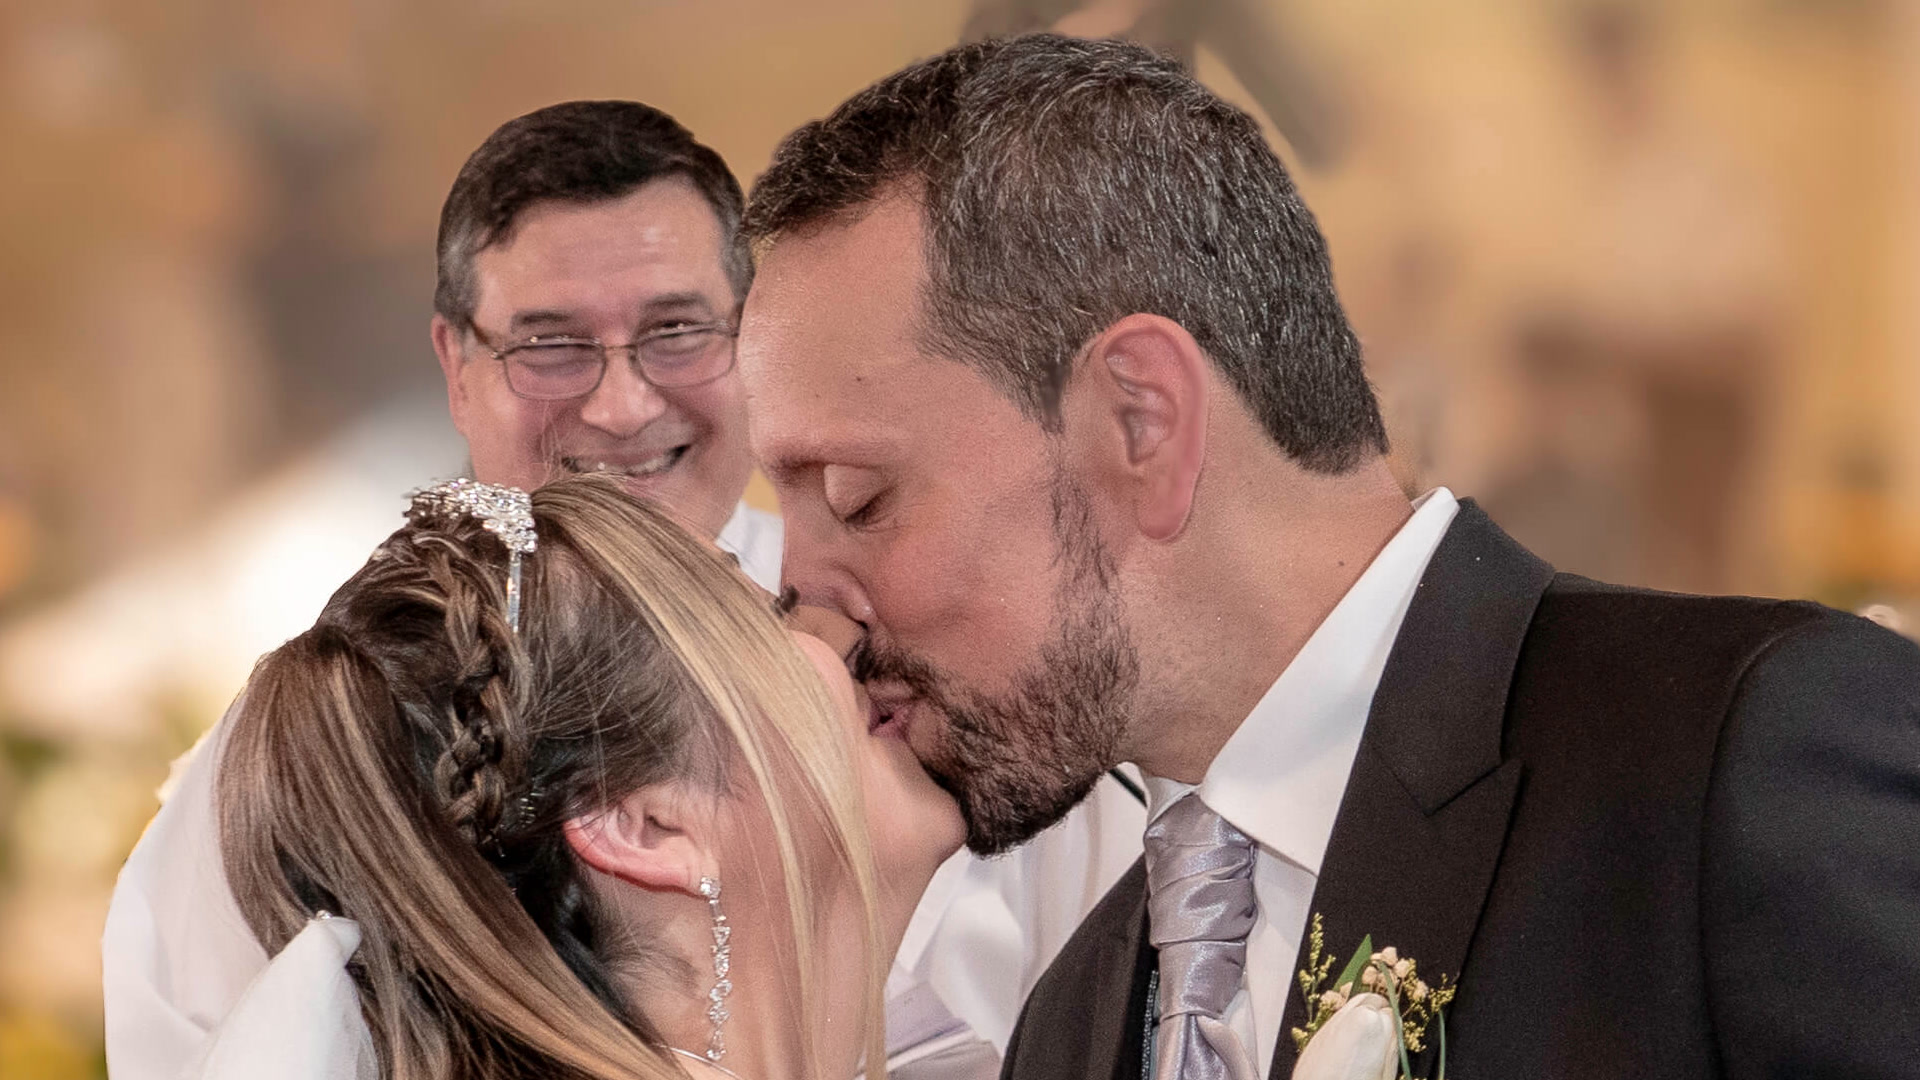
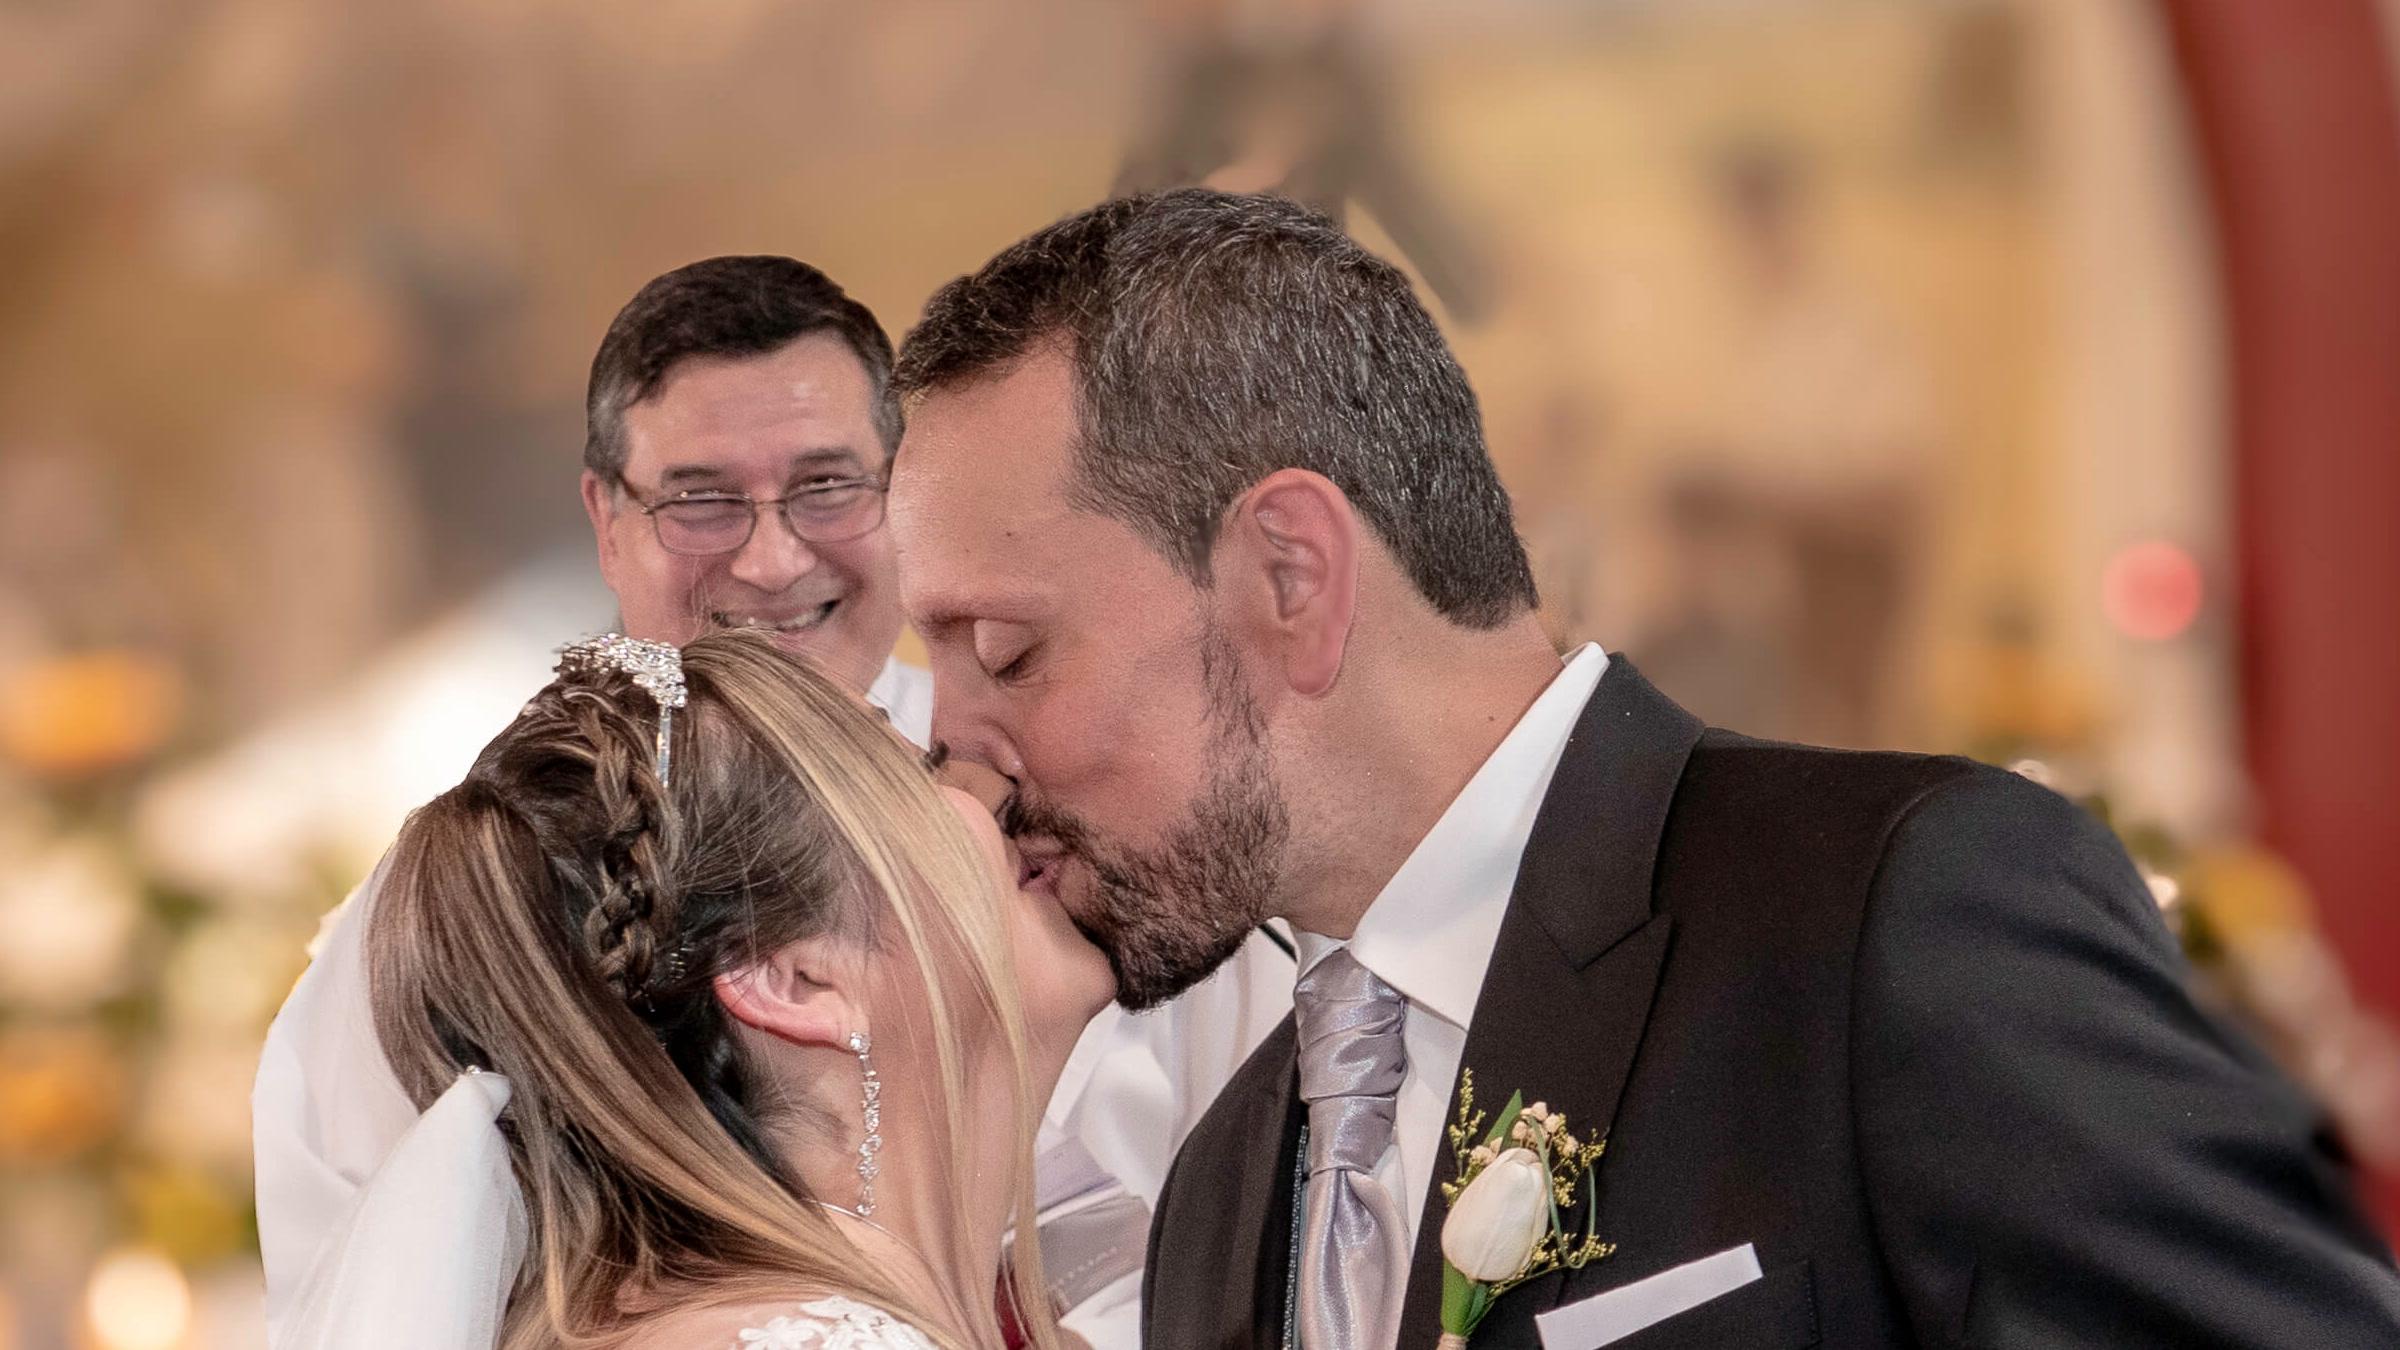
Subject-aware framing: heads never cropped by letterbox, zoom or text zones
Claude-Session: https://claude.ai/code/session_01GtZpFnGd9MwZFQGCv2aLcE

diff --git a/portalboda-spot/src/components/Shot.tsx b/portalboda-spot/src/components/Shot.tsx
@@ -1,6 +1,7 @@
 import React from "react";
 import { AbsoluteFill, Img, interpolate, staticFile, useCurrentFrame, useVideoConfig } from "remotion";
 import { EASE, ShotDef, img } from "../config";
+import { letterboxBar } from "../look/Look";
 
 const clamp = { extrapolateLeft: "clamp", extrapolateRight: "clamp" } as const;
 
@@ -14,13 +15,61 @@ export const useShotImage = (shot: ShotDef) => {
   return img(vertical && shot.v ? shot.v : shot.h);
 };
 
+/** Fracciones del cuadro reservadas (texto) donde no deben quedar las cabezas. */
+export type Avoid = { top?: number; bottom?: number; left?: number; right?: number };
+
+type Frame = { scale: number; x: number; y: number; w: number; h: number };
+
+/**
+ * Encuadre con prioridad al sujeto: escala de cover × zoom (limitado para que el sujeto quepa)
+ * y posición dentro del rango donde la caja del sujeto queda en la ventana visible
+ * (cuadro − letterbox − zonas de texto). `pan` ∈ [0,1] recorre ese rango.
+ */
+const frameSubject = (
+  W: number,
+  H: number,
+  im: { w: number; h: number; subject: [number, number, number, number] },
+  zoom: number,
+  pan: [number, number],
+  avoid: Avoid,
+): Frame => {
+  const bar = letterboxBar(W, H);
+  const margin = 0.03 * Math.min(W, H);
+  const vl = W * (avoid.left ?? 0) + margin;
+  const vr = W * (1 - (avoid.right ?? 0)) - margin;
+  const vt = Math.max(bar, H * (avoid.top ?? 0)) + margin;
+  const vb = Math.min(H - bar, H * (1 - (avoid.bottom ?? 0))) - margin;
+  const [x0, y0, x1, y1] = im.subject;
+  const cover = Math.max(W / im.w, H / im.h);
+  // Zoom máximo con el que el sujeto aún entra en la ventana.
+  const maxZoom = Math.min((vr - vl) / ((x1 - x0) * im.w * cover), (vb - vt) / ((y1 - y0) * im.h * cover));
+  const scale = cover * Math.max(1, Math.min(zoom, maxZoom));
+  const w = im.w * scale;
+  const h = im.h * scale;
+  const axis = (size: number, frame: number, a0: number, a1: number, lo: number, hi: number, p: number) => {
+    // cubrir el cuadro: [frame - size, 0]; sujeto dentro de [lo, hi]: [lo - a0·size, hi - a1·size]
+    const min = Math.max(frame - size, lo - a0 * size);
+    const max = Math.min(0, hi - a1 * size);
+    if (min <= max) return min + (max - min) * p;
+    // Sin solución exacta: prioriza el borde superior/izquierdo del sujeto (las cabezas).
+    return Math.min(0, Math.max(frame - size, lo - a0 * size));
+  };
+  return {
+    scale,
+    w,
+    h,
+    x: axis(w, W, x0, x1, vl, vr, pan[0]),
+    y: axis(h, H, y0, y1, vt, vb, pan[1]),
+  };
+};
+
 type Props = {
   shot: ShotDef;
   duration: number;
   id: string;
-  /** Ken Burns: escala inicial → final */
+  /** Ken Burns: zoom inicial → final (se limita para no cortar cabezas) */
   zoom?: [number, number];
-  /** Deriva en % (x, y) a lo largo de la toma */
+  /** Paneo dentro del rango seguro: [x, y] de -1 a 1 (0 = centrado) */
   drift?: [number, number];
   /** Whip-pan de entrada/salida: 1 = hacia la izquierda, -1 = derecha, 0 = sin whip */
   whipIn?: number;
@@ -28,34 +77,40 @@ type Props = {
   whipFrames?: number;
   /** Aberración cromática en el corte de entrada */
   aberration?: boolean;
+  avoid?: Avoid;
 };
 
-// Toma con Ken Burns, whip-pan con motion blur direccional (SVG) y aberración cromática en el corte.
+// Toma con Ken Burns subject-aware, whip-pan con motion blur direccional (SVG) y aberración cromática.
 export const Shot: React.FC<Props> = ({
   shot,
   duration,
   id,
-  zoom = [1.06, 1.14],
+  zoom = [1.04, 1.1],
   drift = [0, 0],
   whipIn = 0,
   whipOut = 0,
   whipFrames = 5,
   aberration = true,
+  avoid = {},
 }) => {
   const frame = useCurrentFrame();
-  const { src, focal } = useShotImage(shot);
+  const { width, height } = useVideoConfig();
+  const image = useShotImage(shot);
 
   const kb = interpolate(frame, [0, duration], [0, 1], { ...clamp, easing: EASE.slow });
-  const scale = zoom[0] + (zoom[1] - zoom[0]) * kb;
+  const z = zoom[0] + (zoom[1] - zoom[0]) * kb;
+  const pan: [number, number] = [0.5 + 0.5 * drift[0] * (kb - 0.5), 0.5 + 0.5 * drift[1] * (kb - 0.5)];
+  const f = frameSubject(width, height, image, z, pan, avoid);
 
-  // Whip: desplazamiento + blur horizontal que culmina justo en el corte.
+  // Whip: desplazamiento corto + blur horizontal fuerte que culmina justo en el corte.
   const inP = whipIn ? interpolate(frame, [0, whipFrames], [1, 0], { ...clamp, easing: EASE.out }) : 0;
   const outP = whipOut
     ? interpolate(frame, [duration - whipFrames, duration], [0, 1], { ...clamp, easing: EASE.in })
     : 0;
-  const shift = whipIn * inP * 12 - whipOut * outP * 12;
-  const blur = Math.max(inP, outP) * 60;
-  const whipScale = 1 + Math.max(inP, outP) * 0.3;
+  const shift = (whipIn * inP - whipOut * outP) * 0.04 * width;
+  const whip = Math.max(inP, outP);
+  const blur = whip * 70;
+  const whipScale = 1 + whip * 0.08;
 
   const ca = aberration ? interpolate(frame, [0, 4], [9, 0], { ...clamp, easing: EASE.out }) : 0;
   const filterId = `fx-${id}`;
@@ -77,14 +132,14 @@ export const Shot: React.FC<Props> = ({
       </svg>
       <AbsoluteFill
         style={{
-          scale: String(scale * whipScale),
-          translate: `${drift[0] * kb + shift}% ${drift[1] * kb}%`,
+          scale: String(whipScale),
+          translate: `${shift}px 0px`,
           filter: useFilter ? `url(#${filterId})` : undefined,
         }}
       >
         <Img
-          src={staticFile(src)}
-          style={{ width: "100%", height: "100%", objectFit: "cover", objectPosition: `${focal[0]}% ${focal[1]}%` }}
+          src={staticFile(image.src)}
+          style={{ position: "absolute", left: f.x, top: f.y, width: f.w, height: f.h, maxWidth: "none" }}
         />
       </AbsoluteFill>
     </AbsoluteFill>

diff --git a/portalboda-spot/src/scenes/Scenes.tsx b/portalboda-spot/src/scenes/Scenes.tsx
@@ -73,7 +73,7 @@ export const Montage: React.FC = () => {
               shot={shot}
               duration={duration}
               zoom={i % 3 === 0 ? [1.16, 1.06] : [1.05, 1.15]}
-              drift={[dir * -2, i % 2 ? 1.5 : -1.5]}
+              drift={[dir * -1, i % 2 ? 0.6 : -0.6]}
               whipIn={dir}
               whipOut={last ? 0 : -dir}
               whipFrames={4}
@@ -110,7 +110,7 @@ export const Hero: React.FC = () => {
             style={{ width: "100%", height: "100%", scale: String(1.04 + 0.05 * breathe), objectPosition: `${focal[0]}% ${focal[1]}%` }}
           />
         ) : (
-          <Shot id="hero" shot={HERO_SHOT} duration={dur} zoom={[1.02, 1.11]} drift={[-1.2, 0.8]} aberration />
+          <Shot id="hero" shot={HERO_SHOT} duration={dur} zoom={[1.02, 1.11]} drift={[-1, 0.6]} aberration avoid={vertical ? { bottom: 0.42 } : { right: 0.45 }} />
         )}
       </AbsoluteFill>
       {/* Scrim para legibilidad del texto */}
@@ -118,14 +118,14 @@ export const Hero: React.FC = () => {
         style={{
           background: vertical
             ? `linear-gradient(180deg, transparent 35%, ${PALETTE.carbon}CC 70%, ${PALETTE.carbon}E6 100%)`
-            : `linear-gradient(90deg, ${PALETTE.carbon}D9 0%, ${PALETTE.carbon}80 38%, transparent 62%)`,
+            : `linear-gradient(270deg, ${PALETTE.carbon}D9 0%, ${PALETTE.carbon}80 38%, transparent 62%)`,
         }}
       />
-      <SafeArea align={vertical ? "center" : "start"} justify={vertical ? "end" : "center"}>
-        <RevealLine size={vertical ? 92 : 100} delay={18} align={vertical ? "center" : "left"} out={dur - 10}>
+      <SafeArea align={vertical ? "center" : "end"} justify={vertical ? "end" : "center"}>
+        <RevealLine size={vertical ? 92 : 100} delay={18} align={vertical ? "center" : "right"} out={dur - 10}>
           Tu historia
         </RevealLine>
-        <RevealLine size={vertical ? 92 : 100} delay={26} align={vertical ? "center" : "left"} out={dur - 10}>
+        <RevealLine size={vertical ? 92 : 100} delay={26} align={vertical ? "center" : "right"} out={dur - 10}>
           merece <Em>cine.</Em>
         </RevealLine>
       </SafeArea>
@@ -138,6 +138,8 @@ export const FastCuts: React.FC = () => {
   const base = SECTIONS.fast.from;
   const vertical = useVertical();
   const total = SECTIONS.fast.to - base;
+  // En 16:9 la primera toma no deja espacio lateral sin tapar rostros: el texto entra en el 2º corte.
+  const textIn = vertical ? 8 : fastTimeline[1].from - base + 4;
   return (
     <AbsoluteFill style={{ backgroundColor: PALETTE.carbon }}>
       {fastTimeline.map(({ shot, from, duration }, i) => (
@@ -147,7 +149,8 @@ export const FastCuts: React.FC = () => {
             shot={shot}
             duration={duration}
             zoom={i === FAST_SHOTS.length - 1 ? [1.18, 1.04] : [1.04, 1.12]}
-            drift={[i % 2 ? 2 : -2, 0]}
+            drift={[i % 2 ? 1 : -1, 0]}
+            avoid={vertical ? { bottom: 0.42 } : { right: 0.42 }}
             whipIn={i === 0 ? 0 : i % 2 ? -1 : 1}
             whipOut={i === FAST_SHOTS.length - 1 ? 0 : i % 2 ? 1 : -1}
             whipFrames={4}
@@ -157,15 +160,15 @@ export const FastCuts: React.FC = () => {
       <AbsoluteFill
         style={{
           background: vertical
-            ? `linear-gradient(180deg, ${PALETTE.carbon}D0 0%, ${PALETTE.carbon}60 30%, transparent 50%)`
-            : `linear-gradient(0deg, ${PALETTE.carbon}E0 0%, ${PALETTE.carbon}70 30%, transparent 55%)`,
+            ? `linear-gradient(0deg, ${PALETTE.carbon}E6 0%, ${PALETTE.carbon}B0 25%, ${PALETTE.carbon}40 42%, transparent 55%)`
+            : `linear-gradient(270deg, ${PALETTE.carbon}D9 0%, ${PALETTE.carbon}80 36%, transparent 58%)`,
         }}
       />
-      <SafeArea justify={vertical ? "start" : "end"}>
-        <RevealLine size={vertical ? 64 : 64} delay={8} out={total - 10}>
+      <SafeArea align={vertical ? "center" : "end"} justify={vertical ? "end" : "center"}>
+        <RevealLine size={vertical ? 64 : 58} delay={textIn} out={total - 10} align={vertical ? "center" : "right"}>
           Videos de matrimonio
         </RevealLine>
-        <RevealLine size={vertical ? 64 : 64} delay={16} out={total - 10}>
+        <RevealLine size={vertical ? 64 : 58} delay={textIn + 8} out={total - 10} align={vertical ? "center" : "right"}>
           con look <Em>cinematográfico.</Em>
         </RevealLine>
       </SafeArea>

diff --git a/portalboda-spot/src/look/Look.tsx b/portalboda-spot/src/look/Look.tsx
@@ -46,12 +46,16 @@ export const Vignette: React.FC = () => (
   />
 );
 
+// Alto final de cada franja (también define la ventana visible para el encuadre).
+export const letterboxBar = (width: number, height: number) =>
+  height > width ? height * 0.028 : (height - width / 2.39) / 2;
+
 // Letterbox 2.39:1 animado en horizontal; franjas sutiles en vertical.
 export const Letterbox: React.FC = () => {
   const frame = useCurrentFrame();
   const { width, height } = useVideoConfig();
   const vertical = height > width;
-  const target = vertical ? height * 0.028 : (height - width / 2.39) / 2;
+  const target = letterboxBar(width, height);
   const bar = interpolate(frame, [4, 30], [vertical ? 0 : height * 0.5, target], {
     ...clamp,
     easing: EASE.out,

diff --git a/portalboda-spot/src/config.ts b/portalboda-spot/src/config.ts
@@ -35,6 +35,10 @@ export type ImageId = keyof typeof assets.images;
 export const img = (id: ImageId) => ({
   src: `img/${id}.jpg`,
   focal: assets.images[id].focal as [number, number],
+  w: assets.images[id].w,
+  h: assets.images[id].h,
+  /** Caja normalizada [x0, y0, x1, y1] con las cabezas: nunca sale de la ventana visible. */
+  subject: assets.images[id].subject as [number, number, number, number],
 });
 
 // Una toma puede usar un archivo distinto según formato (solo cambia el layout).

diff --git a/portalboda-spot/src/components/Type.tsx b/portalboda-spot/src/components/Type.tsx
@@ -26,7 +26,7 @@ export const SafeArea: React.FC<{
     <AbsoluteFill
       style={{
         top: vertical ? "10%" : "17%",
-        bottom: vertical ? "18%" : "17%",
+        bottom: vertical ? "20%" : "17%", // 18% UI + 2% de aire
         left: vertical ? "7%" : "8%",
         right: vertical ? "12%" : "8%",
         width: "auto",
